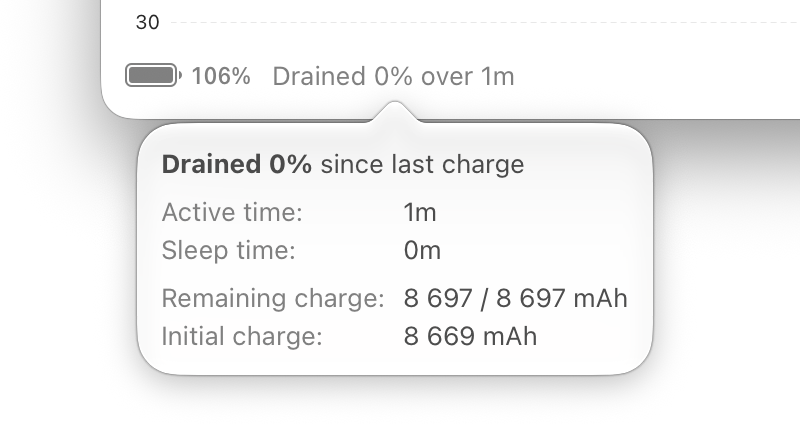
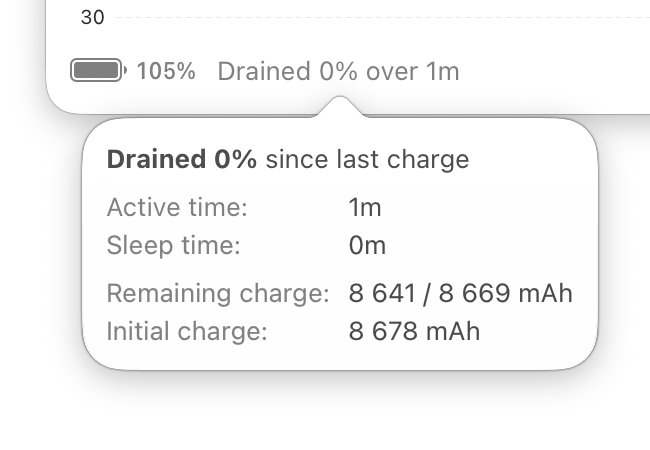
update screenshots

Changed region(s): [[0.0923, 0.0, 1.0, 0.9198]]

diff --git a/docs/index.html b/docs/index.html
@@ -60,7 +60,7 @@
 
     .hero {
       position: relative;
-      min-height: 650px;
+      min-height: 610px;
       padding: 80px 0 50px;
     }
 
@@ -412,7 +412,7 @@
         <p>Switch between Automatic and Power Save modes for your current power source as your priorities change.</p>
       </div>
       <figure>
-        <img src="battery.png" width="400" height="212" loading="lazy" alt="Battery details showing charge, drain, and awake and sleep time since unplugging">
+        <img src="battery.png" width="325" height="225" loading="lazy" alt="Battery details showing charge, drain, and awake and sleep time since unplugging">
         <figcaption>macOS can report 100% below full capacity. StillCore can show charge above that threshold, so you can see it drop even while macOS still reads 100%.</figcaption>
       </figure>
     </section>
